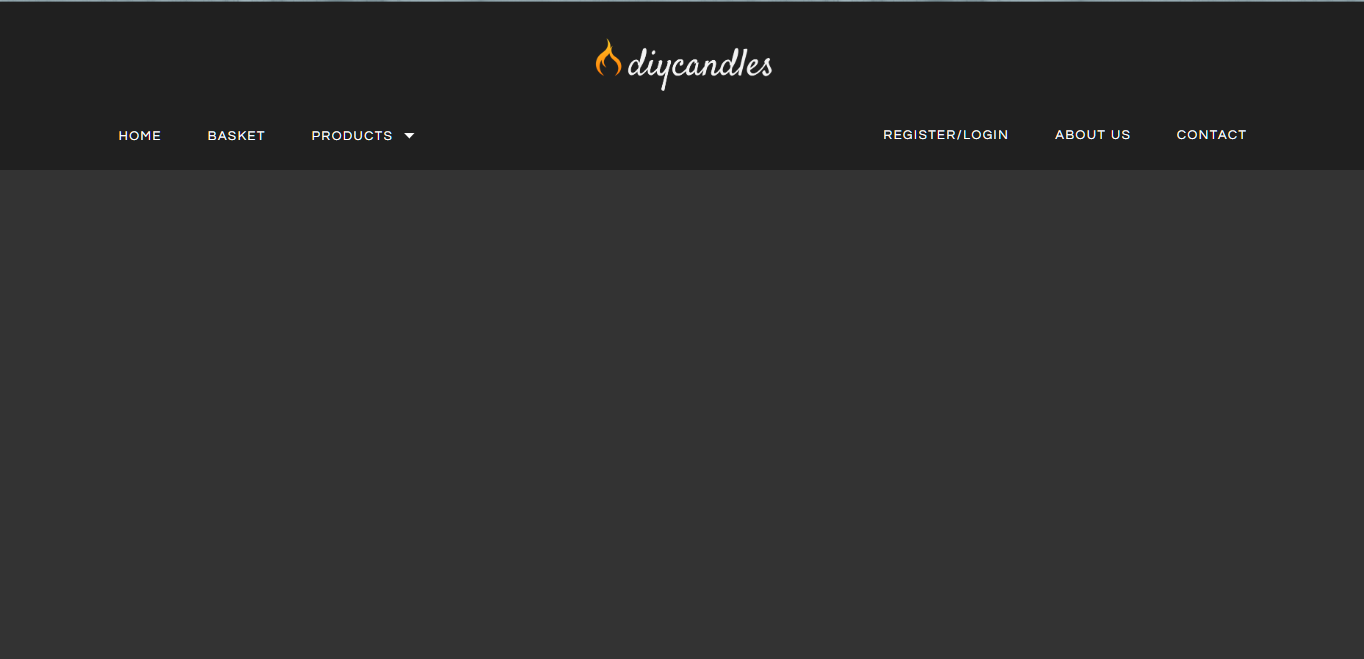
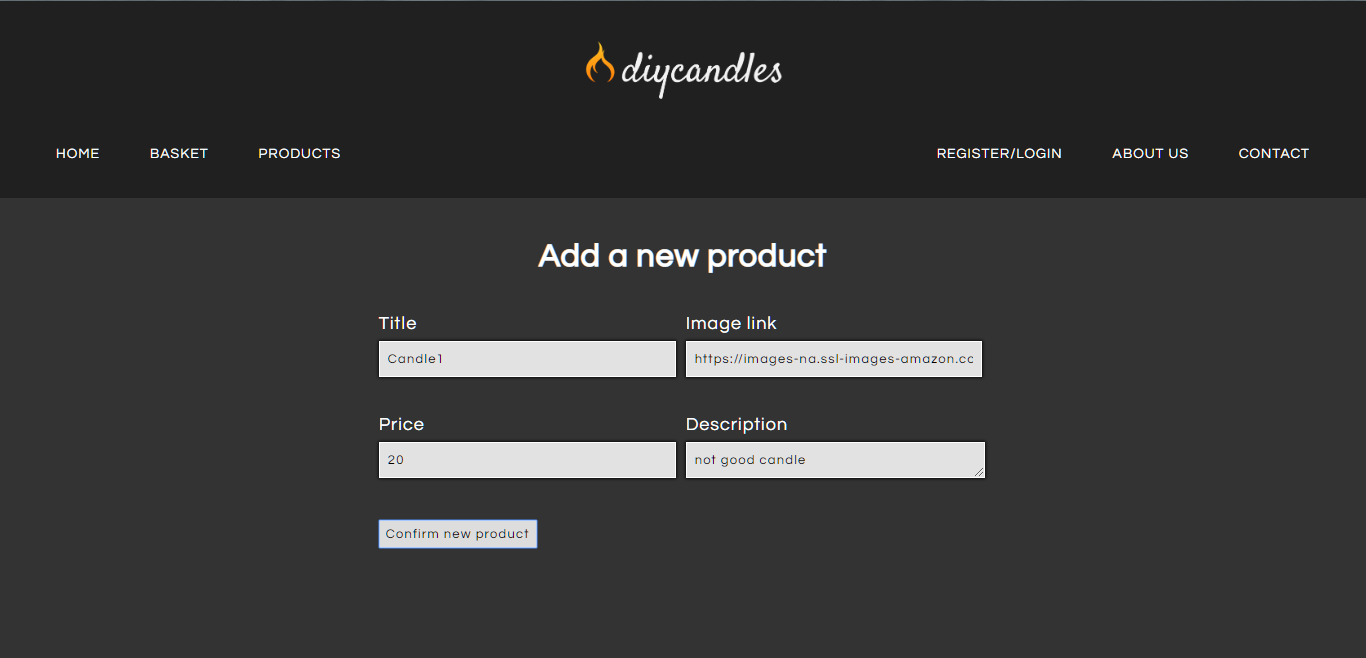
connected db, MVC has been set up

diff --git a/source/app.js b/source/app.js
@@ -2,10 +2,11 @@ const express = require("express");
 const path = require("path");
 const bodyParser=require("body-parser");
 const handlebars = require("express-handlebars");
-
+const mongoose = require("mongoose");
+var db = mongoose.connection;
 const app = express();
 //importing routes
-const userRoutes = require("./routes/user");
+const publicRoutes = require("./routes/public");
 const adminRoutes = require("./routes/admin");
 
 
@@ -19,7 +20,7 @@ app.use(bodyParser.urlencoded({extended:false}));
 app.use(express.static(path.join(__dirname, 'public')));
 
 //Routes
-app.use(userRoutes);
+app.use(publicRoutes);
 app.use("/admin", adminRoutes)
 
 
@@ -29,5 +30,9 @@ app.use(function(req,res,next){
 
 
 app.listen(3000, function(){
-    console.log("I'm listening")
+    mongoose.connect("mongodb+srv://Ali:35474597@diy-cluster-ggwdx.gcp.mongodb.net/candles?retryWrites=true&w=majority", {useNewUrlParser: true, useUnifiedTopology: true});
+    db.once("open",function(){
+        console.log("connected to mongodb");
+    });
+    console.log("I'm listening");
 });

diff --git a/source/controllers/adminController.js b/source/controllers/adminController.js
@@ -1,3 +1,22 @@
+const mongoose = require("mongoose");
+const Product = require("../Models/product");
+const bodyParser = require("body-parser");
+var db = mongoose.connection;
 module.exports.addProductPost = function(req,res,next){
-    res.redirect("/")
+    var title = req.body.title;
+    var imgUrl = req.body.imgUrl;
+    var price = req.body.price;
+    var description = req.body.description;
+var candle = new Product({
+    title:title,
+    imgUrl:imgUrl,
+    price:price,
+    description:description
+});
+
+
+ candle.save()
+ .then(function(response){
+     console.log("new product added!")
+ })
 }

diff --git a/source/controllers/publicController.js b/source/controllers/publicController.js
@@ -1,0 +1,11 @@
+const mongoose = require("mongoose");
+const Product = require("../Models/product")
+module.exports.getProductList = function(req,res,next){
+
+Product.find()
+.then(function(products){
+    {
+        res.render("public/Home", { title:"Home", products:products})
+    }
+});
+}

diff --git a/source/Models/product.js b/source/Models/product.js
@@ -1,0 +1,12 @@
+const mongoose = require("mongoose");
+
+var productSchema = new mongoose.Schema({
+    title:String,
+    imgUrl:String,
+    price:Number,
+    description:String
+});
+
+var Product = mongoose.model("Product", productSchema);
+
+module.exports = Product;

diff --git a/source/routes/public.js b/source/routes/public.js
@@ -1,0 +1,7 @@
+const express = require("express");
+const Router = express.Router();
+const public = require("../controllers/publicController")
+Router.get("/", public.getProductList);
+
+
+module.exports = Router;

diff --git a/source/public/css/addProduct.css b/source/public/css/addProduct.css
@@ -33,7 +33,6 @@
 .addProduct .field input:focus, .addProduct .field textarea:focus {
   outline: none;
   background-color: white;
-  box-shadow: 0 0 3px white;
 }
 .addProduct .field button {
   padding: 6px;

diff --git a/source/public/sass/addProduct.scss b/source/public/sass/addProduct.scss
@@ -31,7 +31,6 @@
     input:focus,textarea:focus{
         outline:none;
         background-color:white;  
-        box-shadow:0 0 3px white;   
     }
 
     button{
